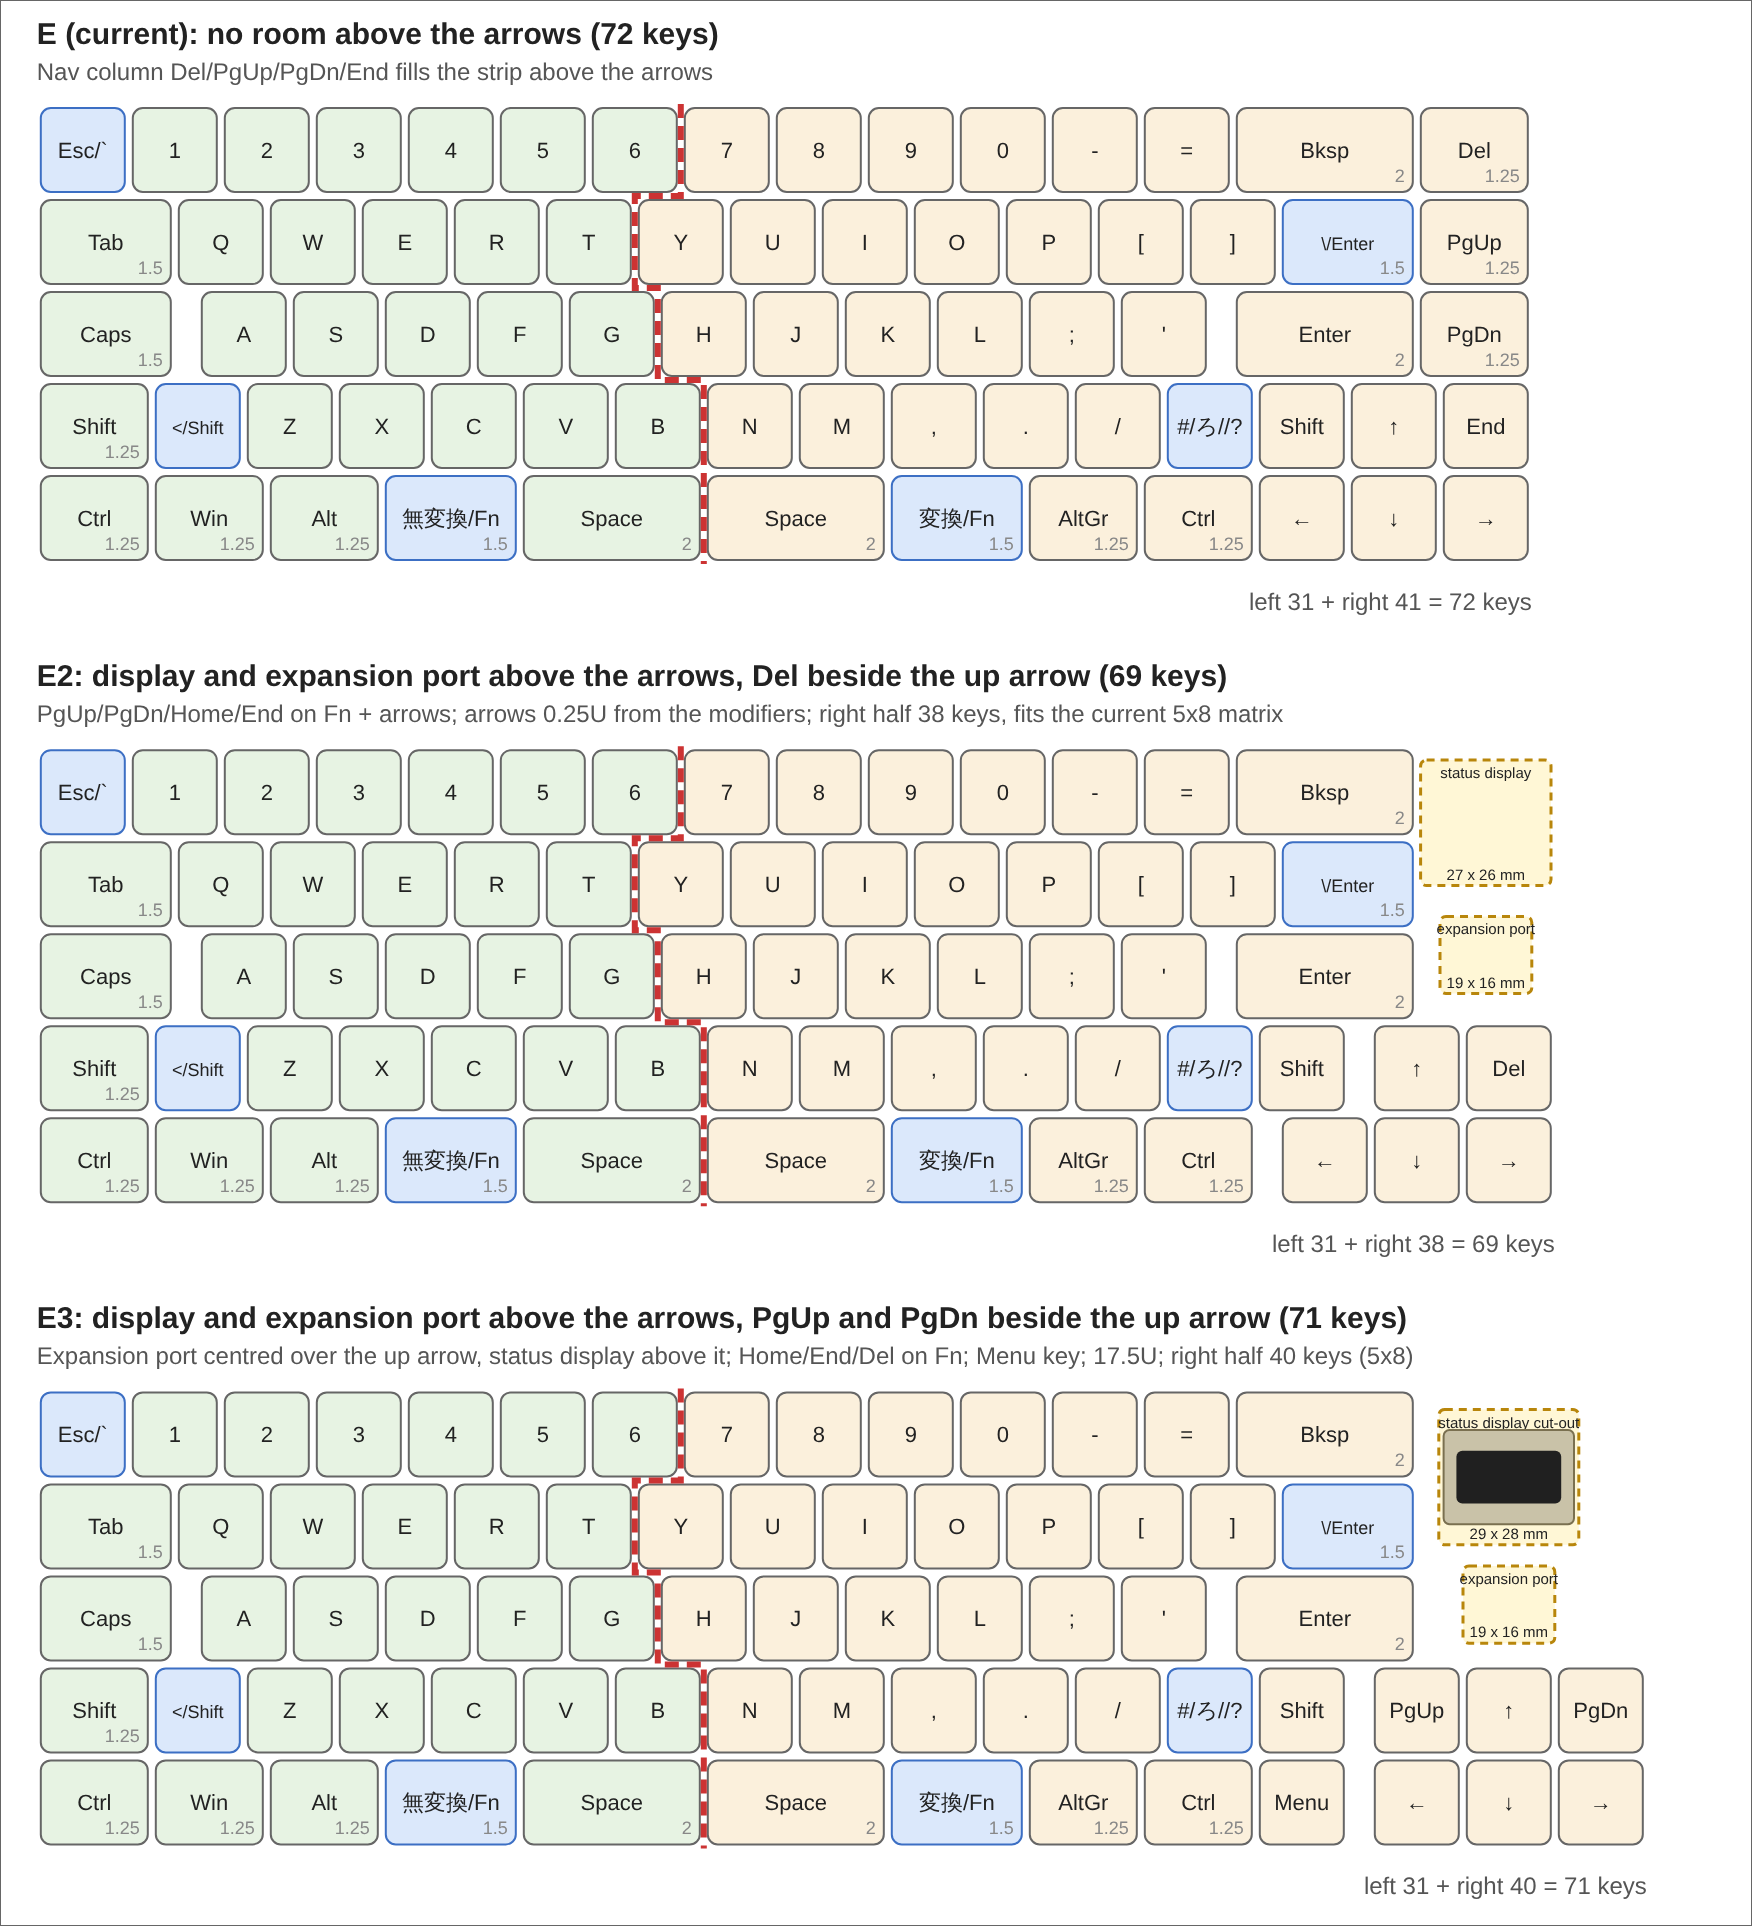
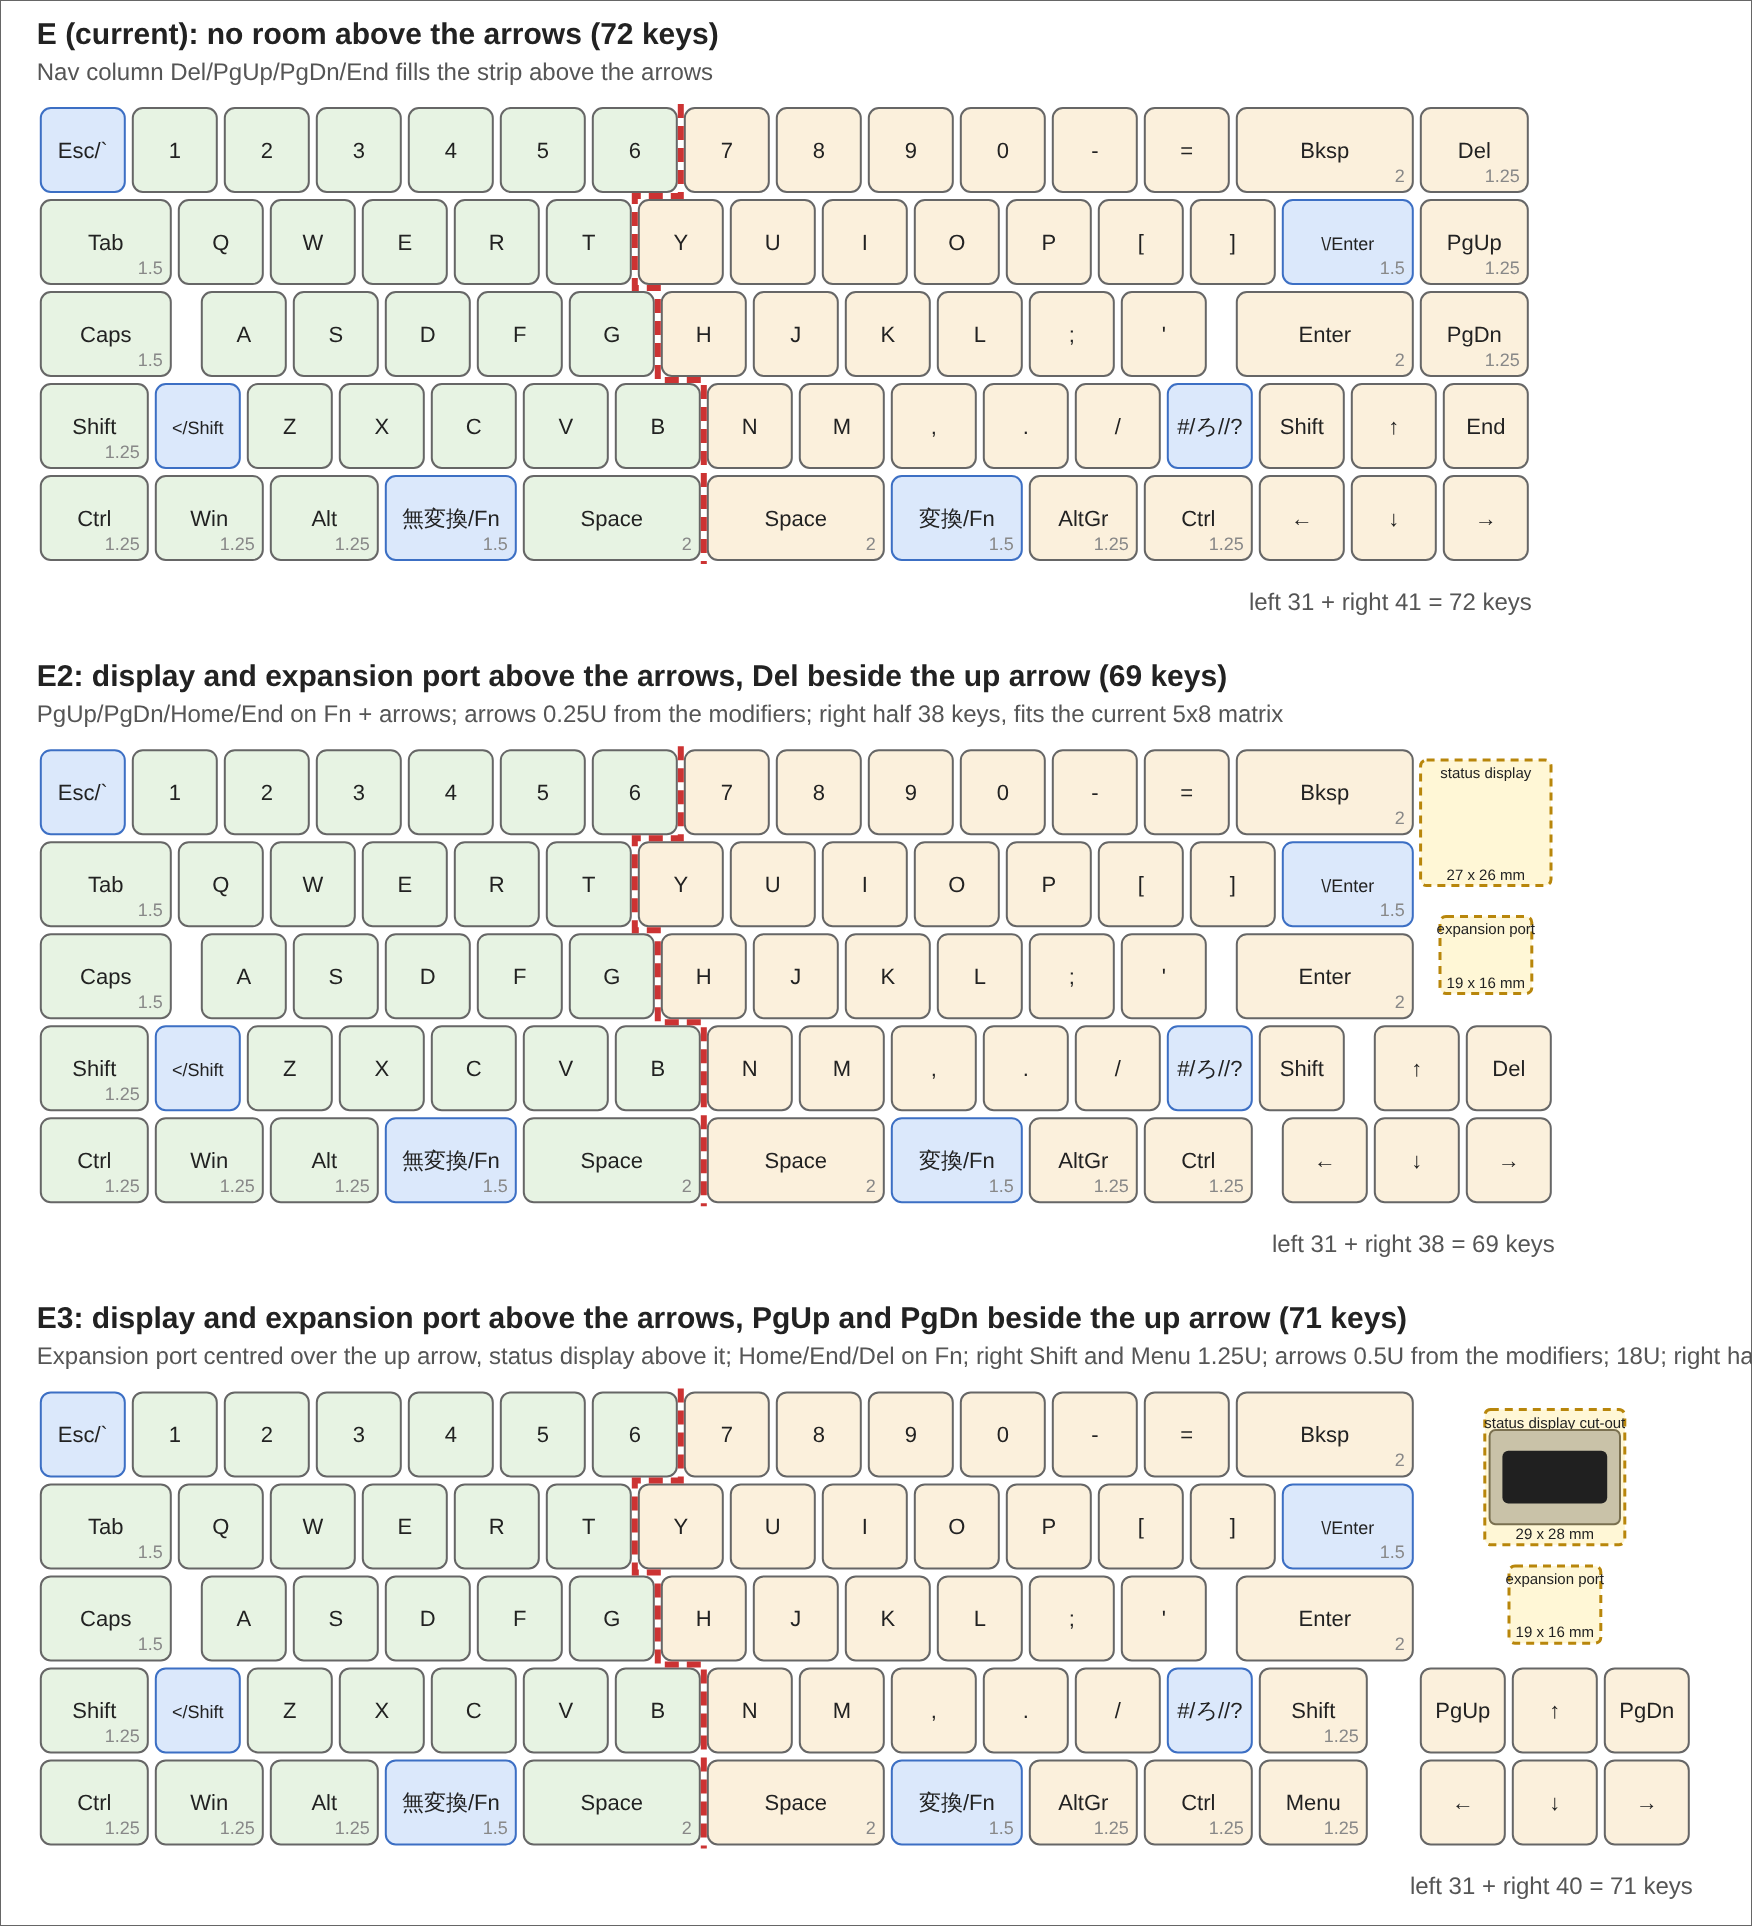
split72s layout study: E3 with 1.25U right Shift and Menu, arrows 0.5U right
The right Shift and the Menu key grow to 1.25U, and the arrow block
sits 0.5U from the modifiers. E3 is now 18U wide; the expansion port
stays centred over the up arrow at 16.5U.

Claude-Session: https://claude.ai/code/session_01U989dwa8qfqDTeXimD42CV

Changed region(s): [[0.5548, 0.6854, 0.9863, 0.9969], [0.9555, 0.6854, 1.0, 0.7165]]

diff --git a/poly_kybd/variations/split72s/layout_study/tkl_layouts.py b/poly_kybd/variations/split72s/layout_study/tkl_layouts.py
@@ -397,13 +397,13 @@ STATUS = [
     },
     {
         "name": "E3: display and expansion port above the arrows, PgUp and PgDn beside the up arrow (71 keys)",
-        "note": "Expansion port centred over the up arrow, status display above it; Home/End/Del on Fn; Menu key; 17.5U; right half 40 keys (5x8)",
-        "rows": {**{r: v + [("gap", 2.5)] for r, v in _E2_TOP.items()},
-                 "s": _E2_SHIFT + [(1, "PgUp"), (1, "↑"), (1, "PgDn")],
-                 "b": _E2_BOTTOM + [(1, "Menu"), ("gap", .25), (1, "←"), (1, "↓"), (1, "→")]},
-        "nav": [], "main_w": 17.5, "split": True,
-        # the up arrow spans 15.5 to 16.5U, its top is row 3
-        "areas": _status_stack(16.0, 3.0),
+        "note": "Expansion port centred over the up arrow, status display above it; Home/End/Del on Fn; right Shift and Menu 1.25U; arrows 0.5U from the modifiers; 18U; right half 40 keys (5x8)",
+        "rows": {**{r: v + [("gap", 3.0)] for r, v in _E2_TOP.items()},
+                 "s": _E2_SHIFT[:-2] + [(1.25, "Shift"), ("gap", .5), (1, "PgUp"), (1, "↑"), (1, "PgDn")],
+                 "b": _E2_BOTTOM + [(1.25, "Menu"), ("gap", .5), (1, "←"), (1, "↓"), (1, "→")]},
+        "nav": [], "main_w": 18.0, "split": True,
+        # the up arrow spans 16.0 to 17.0U, its top is row 3
+        "areas": _status_stack(16.5, 3.0),
     },
 ]
 

diff --git a/poly_kybd/variations/split72s/layout_study/README.md b/poly_kybd/variations/split72s/layout_study/README.md
@@ -12,7 +12,7 @@ connected position the halves touch along that line.
 | `tkl_layouts.svg/.png` | ANSI and ISO TKL references, A (ANSI only, 90 keys), B (universal TKL, 94 keys) |
 | `compact_layouts.svg/.png` | No F-row: C (full nav, 78), D (one nav column, 74), E (65 %, 72), F (E without End, 71) |
 | `e_vs_65.svg/.png` | Layout E next to a standard ANSI 65 % board |
-| `status_layouts.svg/.png` | Room for the status display (27 x 26 mm) and the expansion port (19 x 16 mm) above the arrows: E2 (69 keys, Del beside the up arrow, 16.5U) and E3 (71 keys, PgUp and PgDn beside the up arrow, Menu key, 17.5U; the expansion port centred over the up arrow, the status display cut-out above it: 29 x 28 mm, the 27 x 26 mm holder with an assumed 1 mm clearance, display module 27 x 19.5 mm and screen 21.7 x 10.9 mm drawn inside), both with the arrows 0.25U from the modifiers |
+| `status_layouts.svg/.png` | Room for the status display (27 x 26 mm) and the expansion port (19 x 16 mm) above the arrows: E2 (69 keys, Del beside the up arrow, 16.5U) and E3 (71 keys, PgUp and PgDn beside the up arrow, right Shift and Menu 1.25U, arrows 0.5U from the modifiers, 18U; the expansion port centred over the up arrow, the status display cut-out above it: 29 x 28 mm, the 27 x 26 mm holder with an assumed 1 mm clearance, display module 27 x 19.5 mm and screen 21.7 x 10.9 mm drawn inside); E2 with the arrows 0.25U from the modifiers |
 | `numpad_layouts.svg/.png` | Number blocks N1 (4x5, 20 keys) and N2 (5x5, 25 keys), all 1U, and E with N1 docked on the right |
 | `export_layout_e.py` | Writes the JSON files below from `tkl_layouts.py` |
 | `layout_e.kle.json` | Layout E for keyboard-layout-editor.com: open the file with the site's JSON upload (the Raw data tab expects the rows without the outer brackets) |
